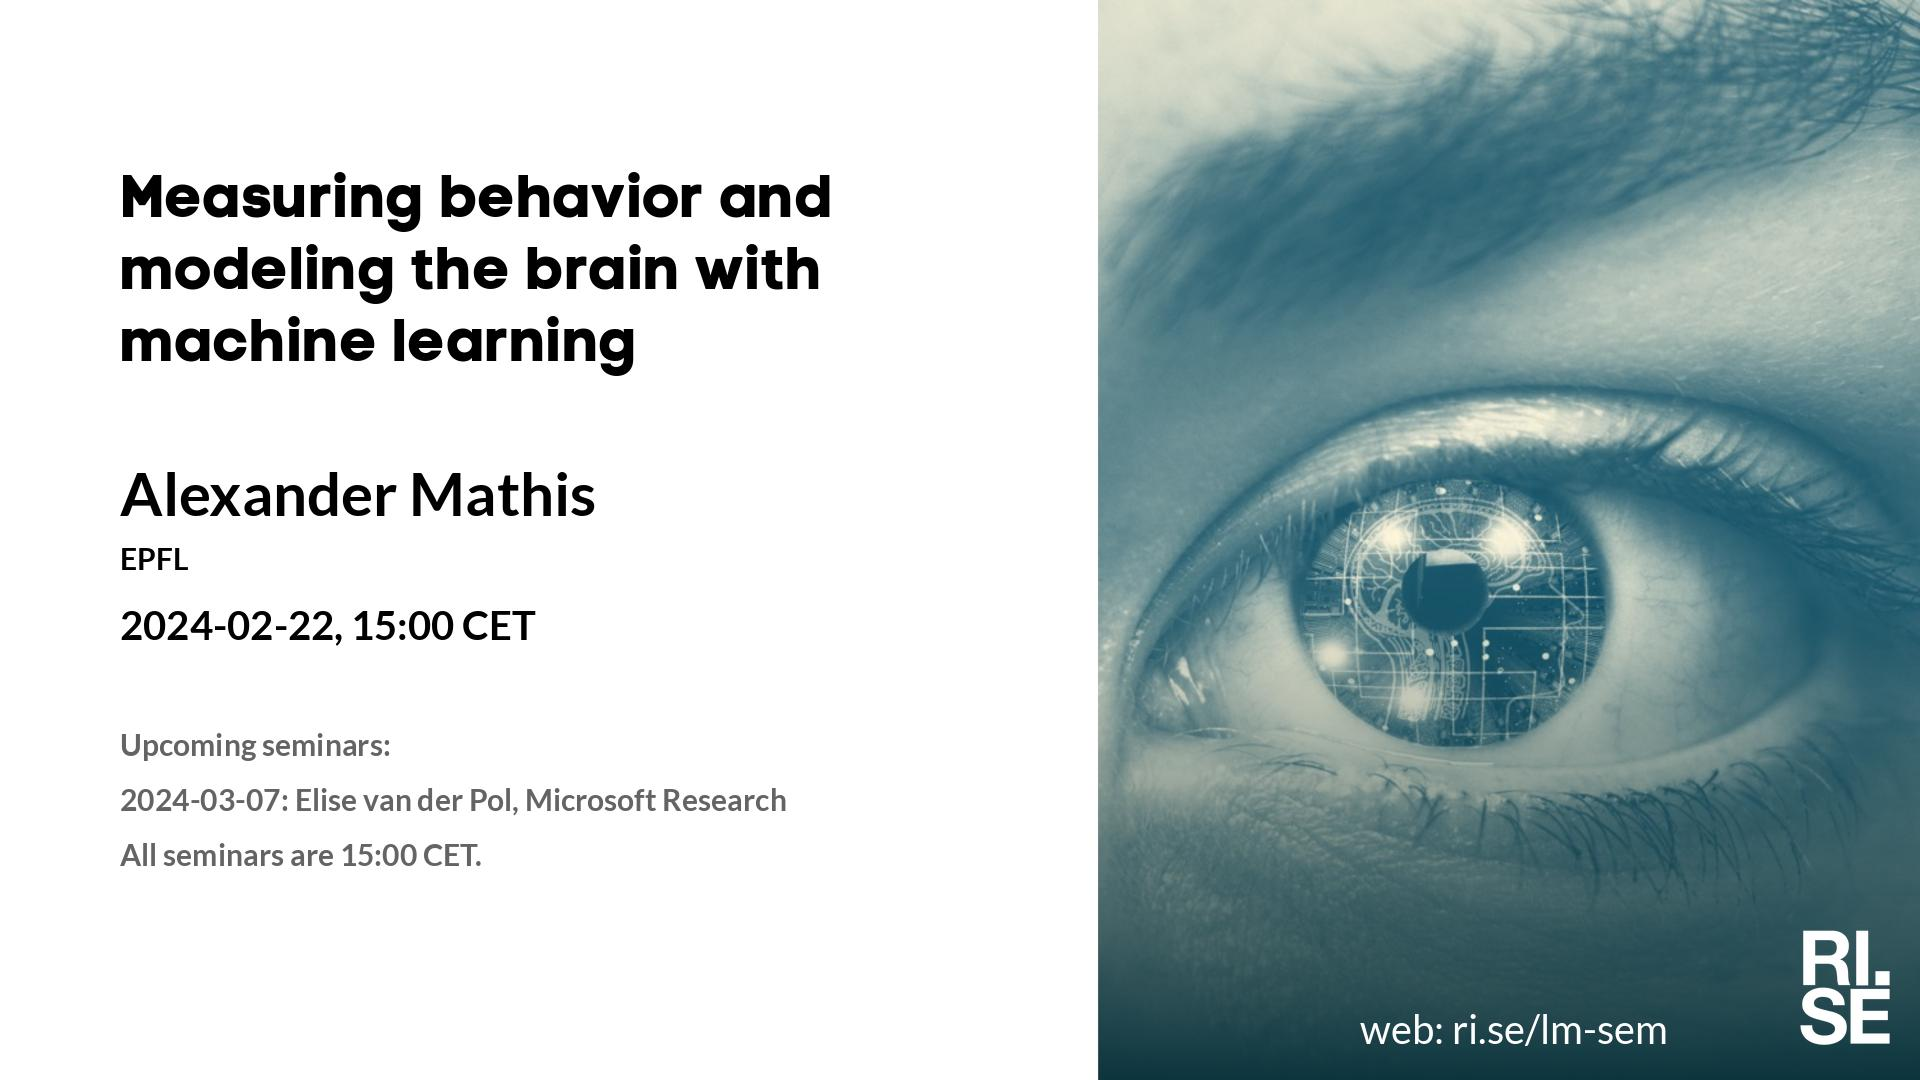
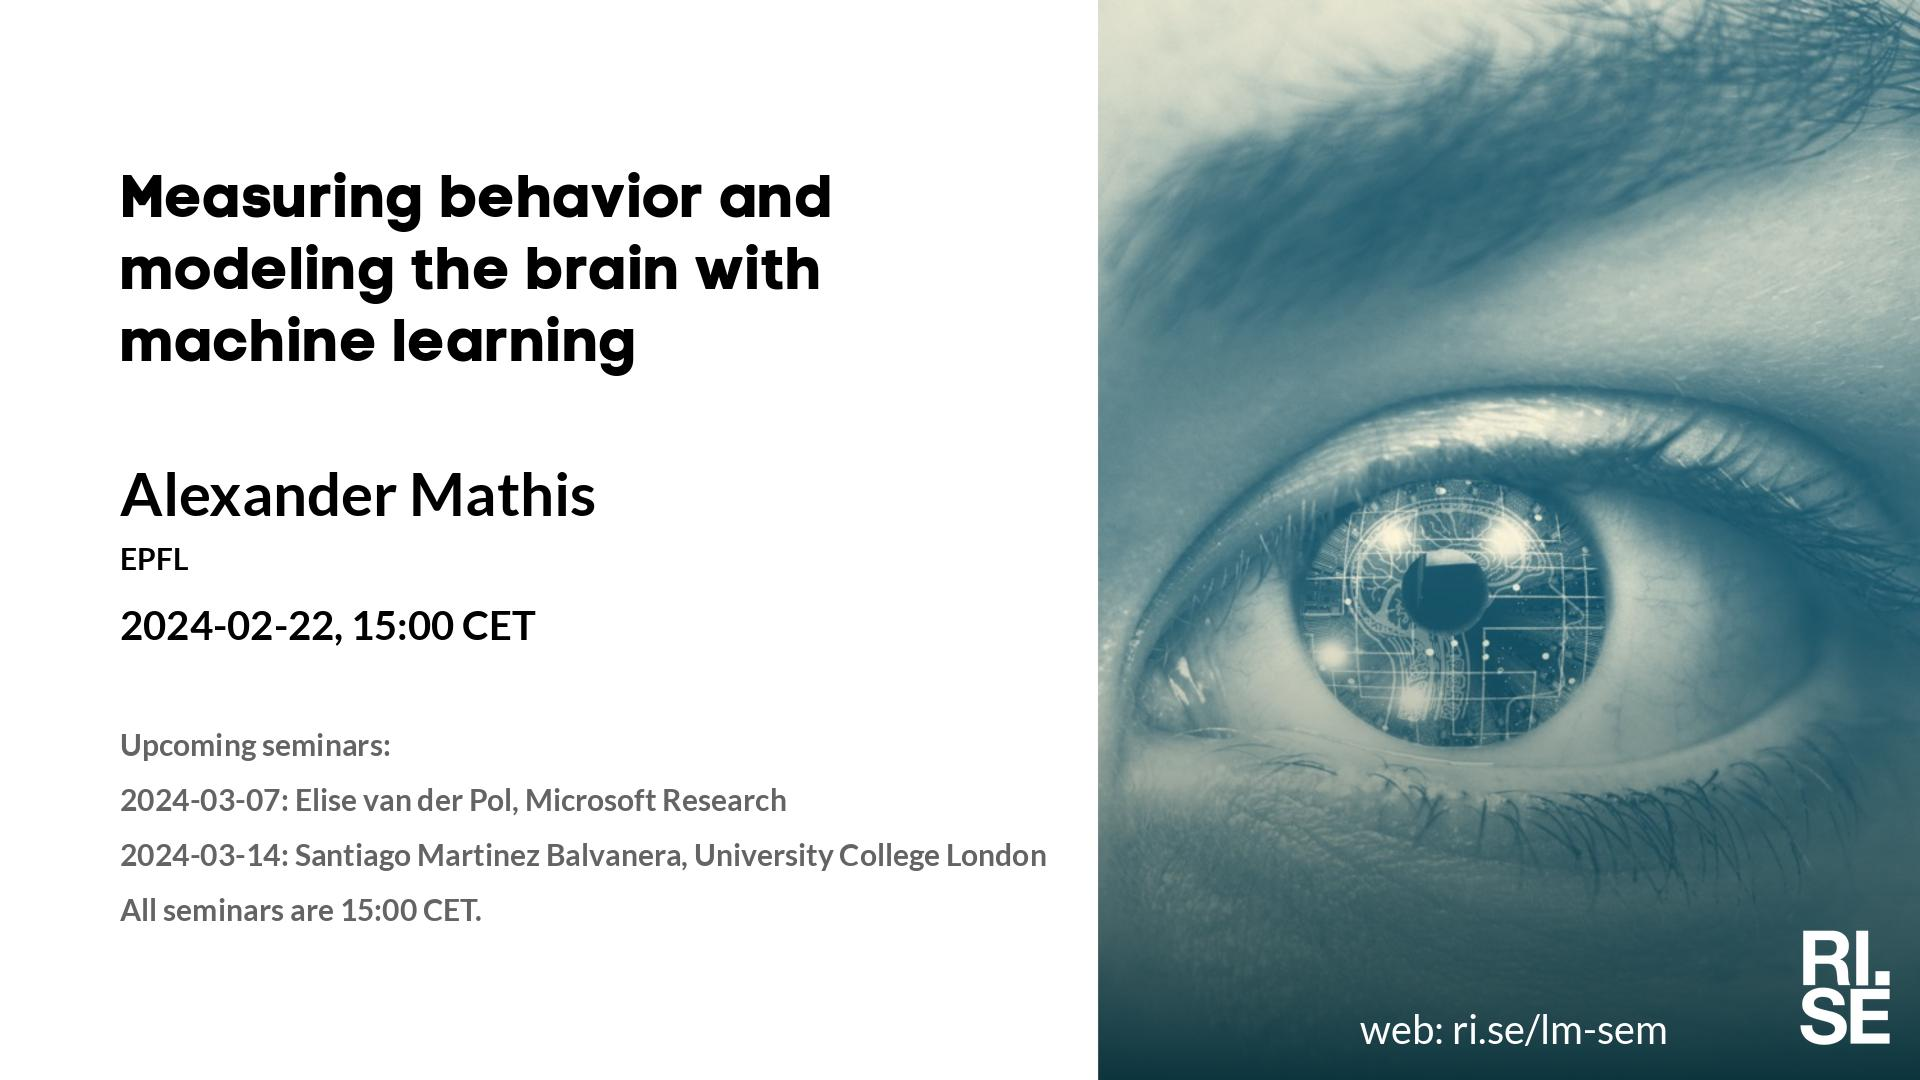
Updated plan on web site.

Changed region(s): [[0.0625, 0.7639, 0.5312, 0.8556]]

diff --git a/lm/index.md b/lm/index.md
@@ -25,7 +25,7 @@ table {border-collapse: collapse;}
 |  2024-02-22  |  [Alexander Mathis, EPFL](2024-02-22.md)  |  [photo](photo-alexander-mathis.jpg)  |  [social media ](social-media-alexander-mathis.jpg)  |  [meeting backdrop ](meeting-backdrop-alexander-mathis.jpg)  |  [youtube thumbnail ](youtube-thumbnail-alexander-mathis.jpg)  |  STABP  |
 | <span style="color:red"> 2024-02-29 </span> | <span style="color:red"> Sportlov </span> | <span style="color:red">  </span> | <span style="color:red">  </span> | <span style="color:red">  </span> | <span style="color:red">  </span> | <span style="color:red"> CANCELLED </span> |
 |  2024-03-07  |  [Elise van der Pol, Microsoft Research](2024-03-07.md)  |  [photo](photo-elise-van-der-pol.jpg)  |  [social media ](social-media-elise-van-der-pol.jpg)  |  [meeting backdrop ](meeting-backdrop-elise-van-der-pol.jpg)  |  [youtube thumbnail ](youtube-thumbnail-elise-van-der-pol.jpg)  |  S~~TAB~~P  |
-| <span style="color:grey"> 2024-03-14 </span> | <span style="color:grey"> Santiago M. B. ? </span> | <span style="color:grey">  </span> | <span style="color:grey">  </span> | <span style="color:grey">  </span> | <span style="color:grey">  </span> | <span style="color:grey"> S~~TABP~~ </span> |
+|  2024-03-14  |  [Santiago Martinez Balvanera, University College London](2024-03-14.md)  |    |  [social media ](social-media-santiago-martinez-balvanera.jpg)  |  [meeting backdrop ](meeting-backdrop-santiago-martinez-balvanera.jpg)  |  [youtube thumbnail ](youtube-thumbnail-santiago-martinez-balvanera.jpg)  |  S~~TABP~~  |
 | <span style="color:grey"> 2024-03-21 </span> | <span style="color:grey"> Karsten K. ? </span> | <span style="color:grey">  </span> | <span style="color:grey">  </span> | <span style="color:grey">  </span> | <span style="color:grey">  </span> | <span style="color:grey"> S~~TABP~~ </span> |
 | <span style="color:purple"> 2024-03-28 </span> | <span style="color:purple"> *Up for grabs!!!* </span> | <span style="color:purple">  </span> | <span style="color:purple">  </span> | <span style="color:purple">  </span> | <span style="color:purple">  </span> | <span style="color:purple"> ~~STABP~~ </span> |
 | <span style="color:purple"> 2024-04-18 </span> | <span style="color:purple"> *Up for grabs!!!* </span> | <span style="color:purple">  </span> | <span style="color:purple">  </span> | <span style="color:purple">  </span> | <span style="color:purple">  </span> | <span style="color:purple"> ~~STABP~~ </span> |

diff --git a/lm/2024-03-14.md b/lm/2024-03-14.md
@@ -6,7 +6,7 @@ Welcome to this week's Learning Machines seminar.
 
 **Title:** N/A
 
-**Speaker:** Elise van der Pol, Microsoft Research
+**Speaker:** Santiago Martinez Balvanera, University College London
 
 **Abstract:** N/A
 
@@ -14,13 +14,12 @@ Welcome to this week's Learning Machines seminar.
 
 **Location:** This is an online seminar. Connect using Zoom.
 
-**Date:** 2024-03-07 15:00
+**Date:** 2024-03-14 15:00
 
-**Zoom link:** [https://rise.zoom.us/j/208117140?pwd=UVZIZ0Z2WFkrNWRDcHBrTlVFWG1OQT09](https://rise.zoom.us/j/208117140?pwd=UVZIZ0Z2WFkrNWRDcHBrTlVFWG1OQT09)
+**Zoom link:** [https://rise.zoom.us/j/208117140?pwd=NUl0ZkJKbXdOUDVqazJtMDBMdVFMdz09](https://rise.zoom.us/j/208117140?pwd=NUl0ZkJKbXdOUDVqazJtMDBMdVFMdz09)
 
 **Upcoming seminars:**
 
-* 2024-03-14: Santiago Martinez Balvanera, University College London
 * All seminars are 15:00 CET.
 
 More information and coming seminars: [https://ri.se/lm-sem](https://ri.se/lm-sem)

diff --git a/lm/2024-02-22.md b/lm/2024-02-22.md
@@ -21,6 +21,7 @@ Welcome to this week's Learning Machines seminar.
 **Upcoming seminars:**
 
 * 2024-03-07: Elise van der Pol, Microsoft Research
+* 2024-03-14: Santiago Martinez Balvanera, University College London
 * All seminars are 15:00 CET.
 
 More information and coming seminars: [https://ri.se/lm-sem](https://ri.se/lm-sem)
